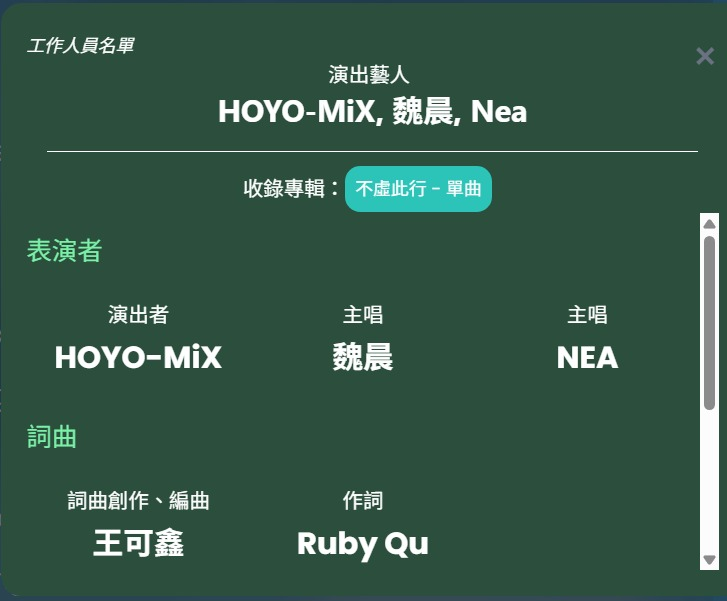
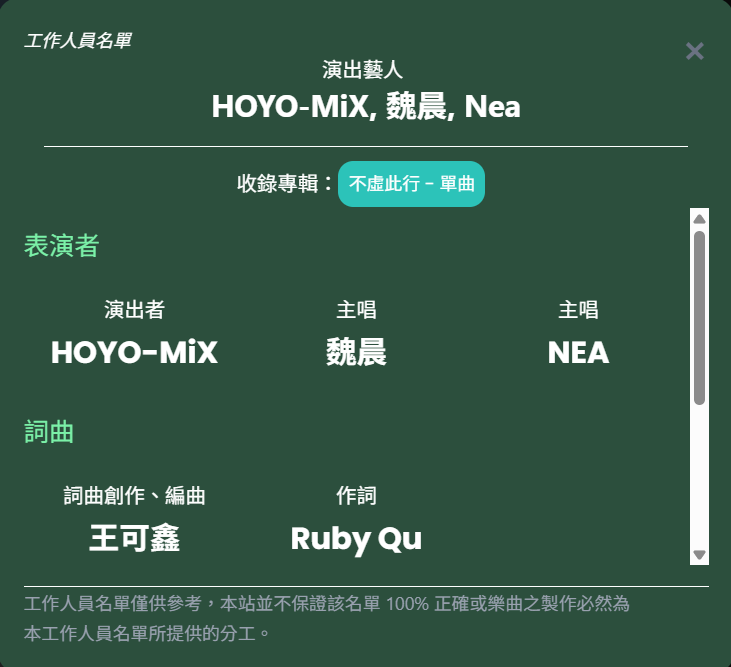
add credit-list disclaimer

diff --git a/index.html b/index.html
@@ -204,7 +204,7 @@
                         <!-- <input type="checkbox" id="credit-list-img" class="hidden"> -->
                         <label for="credit-list-img">
                             <div class="outline-4 rounded-2xl overflow-hidden outline-yellow-400">
-                                <img src="/public/homepage_images/credit-list.png" class=" w-[436px] h-[360px]"
+                                <img src="/public/homepage_images/credit-list.png" width="511" height="466"
                                     alt="工作人員名單" aria-label="工作人員名單">
                             </div>
                         </label>

diff --git a/player/index.html b/player/index.html
@@ -465,6 +465,9 @@
                             </div>
                         </div>
                     </div>
+
+                    <hr class="mt-4">
+                    <span class="text-xs text-gray-400">工作人員名單僅供參考，本站並不保證該名單 100% 正確或樂曲之製作必然為<br>本工作人員名單所提供的分工。</span>
                 </div>
             </div>
 

diff --git a/web/utils/commit-info.js b/web/utils/commit-info.js
@@ -1,1 +1,1 @@
-export const COMMIT_ID = 'dac037698290'
+export const COMMIT_ID = 'c4f6a511e9ee'
